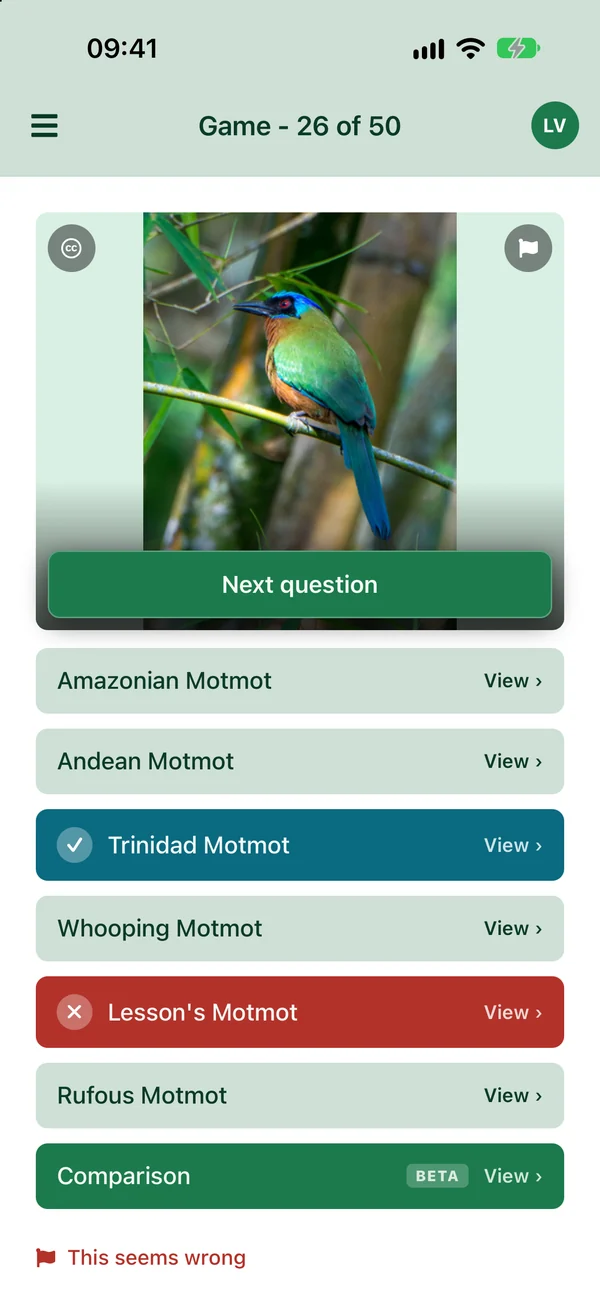
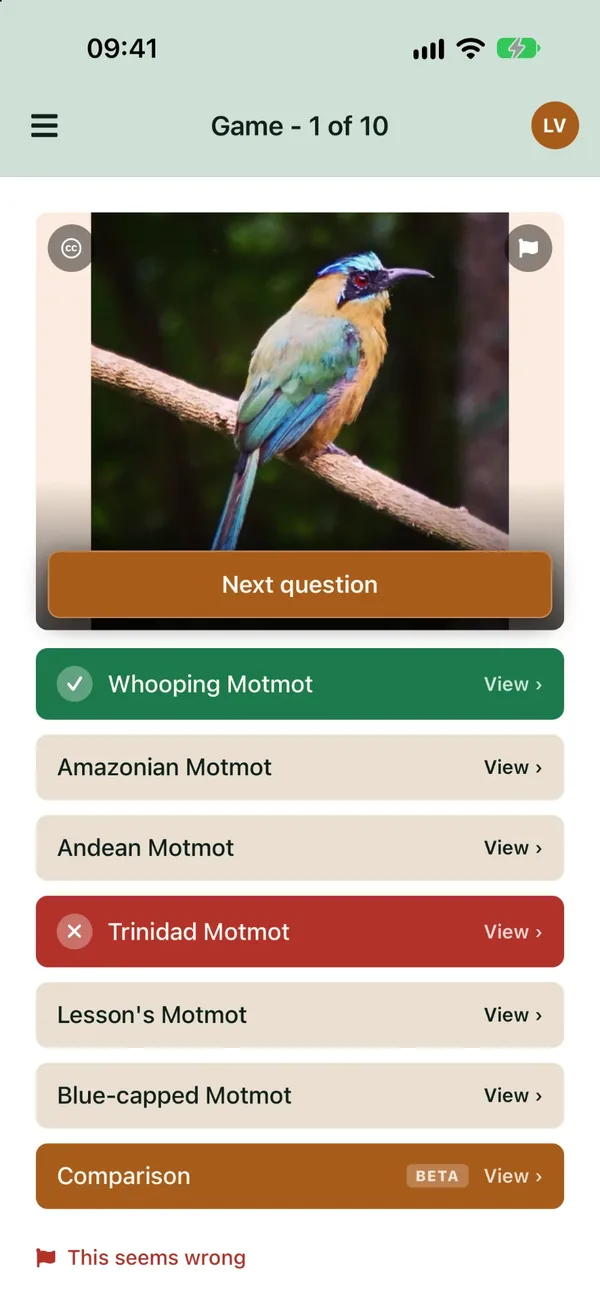
Refresh marketing screenshots and explain playing together
- Landing hero shows the quiz in the new colours (a Whooping Motmot).
- How Motmot teaches: levels, reviewing answers with photos and a
  comparison, and how misses end up in My Tricky Birds.
- My Tricky Birds: Motmot screenshots of the species list, the
  confusing pairs and a Tundra/Whooper Swan comparison.
- How it works: drop the browser link that duplicated the CTA, and add
  a Play together section on multiplayer and shared quizzes with a
  lobby screenshot.

diff --git a/jizz/templates/marketing/landing.html b/jizz/templates/marketing/landing.html
@@ -16,7 +16,7 @@
       <p><a class="web-link" href="/play">{% mt "Or play a quiz in the browser" %}</a></p>
     </div>
     <div class="hero-stage">
-      {% mt "Motmot quiz: a photo of a Trinidad Motmot, with Lesson’s Motmot marked as the wrong answer and Trinidad Motmot as the correct one" as alt %}{% include "marketing/mockups/_shot.html" with shot="quiz-motmot" alt=alt eager=True %}
+      {% mt "Motmot quiz: a photo of a Whooping Motmot, with Trinidad Motmot marked as the wrong answer and Whooping Motmot as the correct one" as alt %}{% include "marketing/mockups/_shot.html" with shot="quiz-motmot" alt=alt eager=True %}
       <img class="tody" src="/images/motmot/tody-hello.webp" width="538" height="600" alt="">
     </div>
   </div>
@@ -38,17 +38,17 @@
     <article class="card">
       <div class="step-art"><div class="step-num">1</div><img class="tody" src="/images/motmot/tody-correct.webp" width="527" height="600" alt="" loading="lazy"></div>
       <h3>{% mt "Play a quiz" %}</h3>
-      <p>{% mt "Answer 10, 20, 50 or 100 questions." %}</p>
+      <p>{% mt "Pick your level: start easy with distinctive birds, or go hard with rare lookalikes." %}</p>
     </article>
     <article class="card">
       <div class="step-art"><div class="step-num">2</div><img class="tody" src="/images/motmot/tody-thinking.webp" width="587" height="600" alt="" loading="lazy"></div>
       <h3>{% mt "Review your answers" %}</h3>
-      <p>{% mt "At the end of the game you can review all your answers." %}</p>
+      <p>{% mt "See more photos of your answer and of the right bird. A comparison explains how the two species differ." %}</p>
     </article>
     <article class="card">
       <div class="step-art"><div class="step-num">3</div><img class="tody" src="/images/motmot/tody-wrong.webp" width="600" height="572" alt="" loading="lazy"></div>
       <h3>{% mt "Learn what you missed" %}</h3>
-      <p>{% mt "Wrong answers become practice. <i>My Tricky Birds</i> keeps the lookalikes that will not stick." %}</p>
+      <p>{% mt "After a few games, the species you get wrong most appear in <i>My Tricky Birds</i>. There you can play quizzes on just those birds and pairs." %}</p>
     </article>
   </div>
   <p><a href="{{ '/site/how-it-works/'|mpath }}">{% mt "See how it works" %}</a></p>

diff --git a/jizz/templates/marketing/intent.html b/jizz/templates/marketing/intent.html
@@ -1,4 +1,5 @@
 {% extends "marketing/base.html" %}
+{% block extra_head %}{% if levels %}{% include "marketing/mockups/_styles.html" %}{% endif %}{% endblock %}
 {% block content %}
 <section class="hero{% if mascot %} has-mascot{% endif %}">
   {% if mascot %}<img class="tody hero-mascot" src="{{ mascot.src }}" width="{{ mascot.width }}" height="{{ mascot.height }}" alt="">{% endif %}
@@ -10,7 +11,7 @@
   </div>
   <p>
     <a class="btn" href="{{ cta_href }}">{{ cta_label }}</a>
-    <a class="web-link" href="/play">{% mt "Play in the browser" %}</a>
+    {% if cta_href != '/play' %}<a class="web-link" href="/play">{% mt "Play in the browser" %}</a>{% endif %}
   </p>
 </section>
 {% if screenshots %}
@@ -59,6 +60,20 @@
       </dl>
     </aside>
     {% endif %}
+  </div>
+  <div class="features">
+  <article class="feature tint-brow" id="play-together">
+    <div class="feature-text">
+      <p class="kicker">{% mt "Multiplayer and shared quizzes" %}</p>
+      <h3 class="feature-title">{% mt "Play together" %}</h3>
+      <p><strong>{% mt "Multiplayer" %}.</strong> {% mt "A live quiz for two or more players. Faster correct answers score more points—great for a desk duel or a club night." %}</p>
+      <p><strong>{% mt "Shared games" %}.</strong> {% mt "Invite friends to play the very same quiz, each on their own time. Everyone has 3 days—or whatever limit you set—and then you compare scores." %}</p>
+      <p>{% mt "Friends join with the game link, a WhatsApp invite or by scanning the QR code in the lobby." %}</p>
+    </div>
+    <div class="feature-art">
+      {% mt "The Motmot game lobby: the game link, a QR code to join, and four players ready to start" as alt %}{% include "marketing/mockups/_shot.html" with shot="lobby" alt=alt %}
+    </div>
+  </article>
   </div>
 </section>
 {% endif %}

diff --git a/jizz/marketing/catalogs.py b/jizz/marketing/catalogs.py
@@ -111,20 +111,42 @@ _ENTRIES: list[tuple[str, tuple[str, ...]]] = [
     ('Or play a quiz in the browser', ('Of speel een quiz in de browser', 'O juega un quiz en el navegador', 'Ou fais un quiz dans le navigateur', 'Oder spiel ein Quiz im Browser', 'O fai un quiz nel browser', 'Ou jogue um quiz no navegador', 'またはブラウザでクイズ')),
     ('How Motmot teaches', ('Hoe Motmot lesgeeft', 'Cómo enseña Motmot', 'Comment Motmot enseigne', 'So lehrt Motmot', 'Come insegna Motmot', 'Como o Motmot ensina', 'Motmotの学び方')),
     ('Play a quiz', ('Speel een quiz', 'Jugar un quiz', 'Faire un quiz', 'Quiz spielen', 'Fai un quiz', 'Jogar um quiz', 'クイズをプレイ')),
-    ('Answer 10, 20, 50 or 100 questions.', ('Beantwoord 10, 20, 50 of 100 vragen.', 'Responde 10, 20, 50 o 100 preguntas.', 'Réponds à 10, 20, 50 ou 100 questions.', 'Beantworte 10, 20, 50 oder 100 Fragen.', 'Rispondi a 10, 20, 50 o 100 domande.', 'Responda 10, 20, 50 ou 100 perguntas.', '10、20、50、100問から選べます。')),
+    (
+        'Pick your level: start easy with distinctive birds, or go hard with rare lookalikes.',
+        (
+            'Kies je level: begin makkelijk met opvallende soorten, of ga voor zeldzame lookalikes.',
+            'Elige tu nivel: empieza fácil con aves inconfundibles o ve a lo difícil con especies parecidas y raras.',
+            'Choisis ton niveau : commence facile avec des oiseaux bien reconnaissables, ou corse les choses avec des sosies rares.',
+            'Wähle dein Level: fang leicht mit markanten Arten an oder geh direkt an seltene Verwechslungsarten.',
+            'Scegli il tuo livello: inizia facile con specie inconfondibili o punta in alto con sosia rari.',
+            'Escolha seu nível: comece fácil com aves inconfundíveis ou vá para o difícil com espécies parecidas e raras.',
+            'レベルを選びましょう。見分けやすい鳥から始めても、珍しい似た種に挑んでもOKです。',
+        ),
+    ),
     ('Review your answers', ('Bekijk je antwoorden', 'Revisa tus respuestas', 'Revois tes réponses', 'Antworten prüfen', 'Rivedi le risposte', 'Revise suas respostas', '答えを確認')),
-    ('At the end of the game you can review all your answers.', ('Aan het eind van het spel kun je al je antwoorden nalopen.', 'Al final de la partida puedes revisar todas tus respuestas.', 'À la fin de la partie tu peux revoir toutes tes réponses.', 'Am Ende kannst du alle Antworten nachschauen.', 'Alla fine della partita puoi rivedere tutte le risposte.', 'No fim do jogo você pode revisar todas as respostas.', 'ゲームの終わりに、すべての答えを確認できます。')),
+    (
+        'See more photos of your answer and of the right bird. A comparison explains how the two species differ.',
+        (
+            'Bekijk meer foto’s van jouw antwoord en van de juiste vogel. Een vergelijking legt uit hoe de twee soorten verschillen.',
+            'Mira más fotos de tu respuesta y del ave correcta. Una comparación explica en qué se diferencian las dos especies.',
+            'Regarde plus de photos de ta réponse et du bon oiseau. Une comparaison explique ce qui distingue les deux espèces.',
+            'Sieh dir mehr Fotos deiner Antwort und des richtigen Vogels an. Ein Vergleich erklärt, worin sich die beiden Arten unterscheiden.',
+            'Guarda altre foto della tua risposta e dell’uccello giusto. Un confronto spiega come si distinguono le due specie.',
+            'Veja mais fotos da sua resposta e da ave certa. Uma comparação explica como as duas espécies se diferenciam.',
+            '自分の答えと正解の鳥の写真をもっと見られます。比較では、2種の違いを説明します。',
+        ),
+    ),
     ('Learn what you missed', ('Leer van je missers', 'Aprende de lo que fallaste', 'Apprends de tes erreurs', 'Lerne aus Fehlern', 'Impara dagli errori', 'Aprenda com os erros', '間違えたところを学ぶ')),
     (
-        'Wrong answers become practice. <i>My Tricky Birds</i> keeps the lookalikes that will not stick.',
+        'After a few games, the species you get wrong most appear in <i>My Tricky Birds</i>. There you can play quizzes on just those birds and pairs.',
         (
-            'Foute antwoorden worden oefening. <i>Mijn lastige vogels</i> onthoudt de lookalikes die niet blijven hangen.',
-            'Las respuestas incorrectas se convierten en práctica. <i>Mis aves difíciles</i> guarda los parecidos que no se te quedan.',
-            'Les mauvaises réponses deviennent de l’entraînement. <i>Mes oiseaux difficiles</i> retient les sosies qui ne rentrent pas.',
-            'Falsche Antworten werden zum Training. <i>Meine schwierigen Vögel</i> merkt sich die Verwechslungsarten.',
-            'Le risposte sbagliate diventano pratica. <i>I miei uccelli difficili</i> tiene i sosia che non restano.',
-            'Respostas erradas viram prática. <i>Minhas aves difíceis</i> guarda os parecidos que não grudam.',
-            '間違いは練習になります。<i>苦手な鳥</i> が、覚えにくい似た種を残します。',
+            'Na een paar spellen verschijnen de soorten die je het vaakst fout hebt in <i>Mijn lastige vogels</i>. Daar speel je quizzen met alleen die vogels en paren.',
+            'Tras unas partidas, las especies que más fallas aparecen en <i>Mis aves difíciles</i>. Allí puedes jugar quizzes solo con esas aves y pares.',
+            'Après quelques parties, les espèces que tu rates le plus apparaissent dans <i>Mes oiseaux difficiles</i>. Tu peux y faire des quiz rien qu’avec ces oiseaux et ces paires.',
+            'Nach ein paar Spielen erscheinen die Arten, die du am häufigsten falsch hast, in <i>Meine schwierigen Vögel</i>. Dort spielst du Quiz nur mit diesen Vögeln und Paaren.',
+            'Dopo qualche partita, le specie che sbagli di più compaiono in <i>I miei uccelli difficili</i>. Lì puoi fare quiz solo su quegli uccelli e quelle coppie.',
+            'Depois de alguns jogos, as espécies que você mais erra aparecem em <i>Minhas aves difíceis</i>. Lá você pode jogar quizzes só com essas aves e pares.',
+            '何回かプレイすると、よく間違える種が<i>苦手な鳥</i>に表示されます。そこではその鳥やペアだけのクイズができます。',
         ),
     ),
     ('See how it works', ('Bekijk hoe het werkt', 'Mira cómo funciona', 'Voir comment ça marche', 'So funktioniert’s', 'Scopri come funziona', 'Veja como funciona', '使い方を見る')),

diff --git a/jizz/marketing/catalogs_extra.py b/jizz/marketing/catalogs_extra.py
@@ -424,6 +424,32 @@ EXTRA_ENTRIES: list[tuple[str, tuple[str, ...]]] = [
             'アプリの「苦手な鳥」：オランダの似たペア一覧。練習ボタンと FIXED バッジ付き',
         ),
     ),
+    ('Your tricky birds', ('Jouw lastige vogels', 'Tus aves difíciles', 'Tes oiseaux difficiles', 'Deine schwierigen Vögel', 'I tuoi uccelli difficili', 'Suas aves difíceis', 'あなたの苦手な鳥')),
+    (
+        'My Tricky Birds, Pairs tab: lookalike pairs you mix up in the Netherlands, such as Tundra Swan and Whooper Swan, each with a Practice button',
+        (
+            'Mijn lastige vogels, tabblad Paren: lookalike-paren die je in Nederland verwart, zoals kleine zwaan en wilde zwaan, elk met een Oefen-knop',
+            'Mis aves difíciles, pestaña Pares: pares parecidos que confundes en Países Bajos, como el cisne chico y el cisne cantor, cada uno con un botón Practicar',
+            'Mes oiseaux difficiles, onglet Paires : les paires sosies que tu confonds aux Pays-Bas, comme le cygne de Bewick et le cygne chanteur, chacune avec un bouton Pratiquer',
+            'Meine schwierigen Vögel, Reiter Paare: Doppelgänger-Paare, die du in den Niederlanden verwechselst, etwa Zwergschwan und Singschwan, jeweils mit Üben-Button',
+            'I miei uccelli difficili, scheda Coppie: coppie simili che confondi nei Paesi Bassi, come il cigno minore e il cigno selvatico, ognuna con un pulsante Pratica',
+            'Minhas aves difíceis, aba Pares: pares parecidos que você confunde nos Países Baixos, como o cisne-pequeno e o cisne-bravo, cada um com um botão Praticar',
+            'アプリの「苦手な鳥」ペアタブ：オランダで混同しやすいペア（コハクチョウとオオハクチョウなど）。それぞれに練習ボタン付き',
+        ),
+    ),
+    (
+        'Comparison of Tundra Swan and Whooper Swan: identification tips on bill pattern, size, head shape and neck length',
+        (
+            'Vergelijking van kleine zwaan en wilde zwaan: determinatietips over snavelpatroon, grootte, kopvorm en halslengte',
+            'Comparación del cisne chico y el cisne cantor: claves de identificación sobre el dibujo del pico, el tamaño, la forma de la cabeza y la longitud del cuello',
+            'Comparaison du cygne de Bewick et du cygne chanteur : conseils d’identification sur le motif du bec, la taille, la forme de la tête et la longueur du cou',
+            'Vergleich von Zwergschwan und Singschwan: Bestimmungstipps zu Schnabelmuster, Größe, Kopfform und Halslänge',
+            'Confronto tra cigno minore e cigno selvatico: consigli di identificazione su disegno del becco, dimensioni, forma della testa e lunghezza del collo',
+            'Comparação entre cisne-pequeno e cisne-bravo: dicas de identificação sobre o padrão do bico, o tamanho, o formato da cabeça e o comprimento do pescoço',
+            'コハクチョウとオオハクチョウの比較：くちばしの模様、大きさ、頭の形、首の長さによる識別のポイント',
+        ),
+    ),
+    ('Compare a pair', ('Vergelijk een paar', 'Compara un par', 'Comparer une paire', 'Ein Paar vergleichen', 'Confronta una coppia', 'Compare um par', 'ペアを比較')),
     ('Your tricky pairs', ('Jouw lastige paren', 'Tus pares difíciles', 'Tes paires difficiles', 'Deine schwierigen Paare', 'Le tue coppie difficili', 'Seus pares difíceis', '苦手なペア')),
     (
         'Pair practice quiz: Eurasian Treecreeper versus Short-toed Treecreeper, with the correct species marked',
@@ -591,7 +617,7 @@ EXTRA_ENTRIES: list[tuple[str, tuple[str, ...]]] = [
     ('Track your progress', ('Volg je voortgang', 'Sigue tu progreso', 'Suis tes progrès', 'Verfolge deinen Fortschritt', 'Segui i tuoi progressi', 'Acompanhe seu progresso', '進歩を記録する')),
     # Home page screenshots: alt texts.
     (
-        'Motmot quiz: a photo of a Trinidad Motmot, with Lesson’s Motmot marked as the wrong answer and Trinidad Motmot as the correct one',
+        'Motmot quiz: a photo of a Whooping Motmot, with Trinidad Motmot marked as the wrong answer and Whooping Motmot as the correct one',
         (
             'Motmot-quiz: een foto van een motmot, met één fout antwoord en het juiste antwoord gemarkeerd',
             'Quiz de Motmot: una foto de un momoto, con una respuesta incorrecta y la respuesta correcta marcadas',

diff --git a/jizz/marketing/catalogs_ui.py b/jizz/marketing/catalogs_ui.py
@@ -212,6 +212,54 @@ UI_ENTRIES: list[tuple[str, tuple[str, ...]]] = [
             'どのクイズにもレベルと、ほかの設定が少しあります。特徴のはっきりした鳥から始め、珍しい似た種、自分で名前を入力する段階へ。',
         ),
     ),
+    (
+        'Multiplayer and shared quizzes',
+        (
+            'Multiplayer en gedeelde quizzen',
+            'Multijugador y quizzes compartidos',
+            'Multijoueur et quiz partagés',
+            'Mehrspieler und geteilte Quiz',
+            'Multigiocatore e quiz condivisi',
+            'Multijogador e quizzes compartilhados',
+            'マルチプレイと共有クイズ',
+        ),
+    ),
+    (
+        'Play together',
+        (
+            'Samen spelen',
+            'Jugar juntos',
+            'Jouer ensemble',
+            'Zusammen spielen',
+            'Giocare insieme',
+            'Jogar juntos',
+            'みんなで遊ぶ',
+        ),
+    ),
+    (
+        'Friends join with the game link, a WhatsApp invite or by scanning the QR code in the lobby.',
+        (
+            'Vrienden doen mee via de spellink, een WhatsApp-uitnodiging of door de QR-code in de lobby te scannen.',
+            'Tus amigos se unen con el enlace de la partida, una invitación por WhatsApp o escaneando el código QR del lobby.',
+            'Tes amis rejoignent avec le lien de la partie, une invitation WhatsApp ou en scannant le QR code du lobby.',
+            'Freunde steigen über den Spiel-Link, eine WhatsApp-Einladung oder den QR-Code in der Lobby ein.',
+            'Gli amici entrano con il link della partita, un invito su WhatsApp o scansionando il codice QR nella lobby.',
+            'Seus amigos entram pelo link do jogo, por um convite no WhatsApp ou escaneando o QR code no lobby.',
+            '友だちはゲームのリンク、WhatsAppの招待、またはロビーのQRコードを読み取って参加できます。',
+        ),
+    ),
+    (
+        'The Motmot game lobby: the game link, a QR code to join, and four players ready to start',
+        (
+            'De spellobby van Motmot: de spellink, een QR-code om mee te doen en vier spelers die klaar zijn om te beginnen',
+            'El lobby de partida de Motmot: el enlace, un código QR para unirse y cuatro jugadores listos para empezar',
+            'Le lobby de partie de Motmot : le lien de la partie, un QR code pour rejoindre et quatre joueurs prêts à commencer',
+            'Die Spiel-Lobby von Motmot: der Spiel-Link, ein QR-Code zum Mitspielen und vier Spieler, die startklar sind',
+            'La lobby di gioco di Motmot: il link della partita, un codice QR per entrare e quattro giocatori pronti a iniziare',
+            'O lobby de jogo do Motmot: o link do jogo, um QR code para entrar e quatro jogadores prontos para começar',
+            'Motmotのゲームロビー：ゲームのリンク、参加用のQRコード、開始を待つ4人のプレイヤー',
+        ),
+    ),
     ('Birds people mix up most', ('Vogels die mensen het meest door elkaar halen', 'Aves que más se confunden', 'Oiseaux que les gens mélangent le plus', 'Vögel, die am häufigsten verwechselt werden', 'Uccelli che si confondono di più', 'Aves que as pessoas mais misturam', 'いちばん取り違えられる鳥')),
     (
         'These are the species and pairs with the most quiz mistakes. Open a page, then practise them until they stick.',

diff --git a/jizz/tests/test_marketing.py b/jizz/tests/test_marketing.py
@@ -274,6 +274,12 @@ class MarketingPagesTests(TestCase):
                 self.assertIn('<title>', html)
 
         how = self.client.get('/site/how-it-works/').content.decode()
+        # Play together: multiplayer and shared quizzes, with the lobby screenshot
+        self.assertIn('id="play-together"', how)
+        self.assertIn('/images/motmot/screen-lobby.webp', how)
+        self.assertEqual(self.client.get('/images/motmot/screen-lobby.webp').status_code, 200)
+        # The CTA already goes to /play, so no second browser link beside it
+        self.assertNotIn('</a>\n    <a class="web-link" href="/play">', how)
         self.assertRegex(how, r'href="/site/how-it-works/"[^>]*aria-current="page"')
         self.assertNotRegex(how, r'href="/site/birds/"[^>]*aria-current="page"')
         self.assertIn('Beginner', how)
@@ -293,20 +299,21 @@ class MarketingPagesTests(TestCase):
         tricky = self.client.get('/site/my-tricky-birds/').content.decode()
         self.assertNotIn('Most missed species', tricky)
         self.assertNotIn('Confusing pairs', tricky)
-        self.assertIn('/images/birdr-tricky-birds.png', tricky)
-        self.assertIn('/images/birdr-tricky-practice.png', tricky)
-        self.assertIn('/images/birdr-tricky-results.png', tricky)
+        self.assertIn('/images/motmot/screen-tricky.webp', tricky)
+        self.assertIn('/images/motmot/screen-tricky-pairs.webp', tricky)
+        self.assertIn('/images/motmot/screen-tricky-comparison.webp', tricky)
+        self.assertNotIn('/images/birdr-tricky-', tricky)
+        self.assertIn('Your tricky birds', tricky)
         self.assertIn('Your tricky pairs', tricky)
-        self.assertIn('Practise a pair', tricky)
-        self.assertIn('See when a pair is fixed', tricky)
+        self.assertIn('Compare a pair', tricky)
         for path in (
-            '/images/birdr-tricky-birds.png',
-            '/images/birdr-tricky-practice.png',
-            '/images/birdr-tricky-results.png',
+            '/images/motmot/screen-tricky.webp',
+            '/images/motmot/screen-tricky-pairs.webp',
+            '/images/motmot/screen-tricky-comparison.webp',
         ):
             shot = self.client.get(path)
             self.assertEqual(shot.status_code, 200, path)
-            self.assertEqual(shot['Content-Type'], 'image/png')
+            self.assertEqual(shot['Content-Type'], 'image/webp')
 
         flocks = self.client.get('/site/flocks/').content.decode()
         self.assertIn('Flocks: quizzes for bird clubs', flocks)

diff --git a/jizz/marketing/pages.py b/jizz/marketing/pages.py
@@ -334,34 +334,31 @@ INTENT_PAGES = {
         ],
         'screenshots': [
             {
-                'src': '/images/birdr-tricky-birds.png',
-                'width': 456,
-                'height': 1024,
+                'src': '/images/motmot/screen-tricky.webp',
+                'width': 600,
+                'height': 1304,
+                'alt': 'My Tricky Birds: the species you often get wrong, each with a practice button',
+                'caption': 'Your tricky birds',
+            },
+            {
+                'src': '/images/motmot/screen-tricky-pairs.webp',
+                'width': 600,
+                'height': 1304,
                 'alt': (
-                    'My Tricky Birds in the app: a list of lookalike pairs for the '
-                    'Netherlands, with Practice buttons and FIXED badges'
+                    'My Tricky Birds, Pairs tab: lookalike pairs you mix up in the Netherlands, '
+                    'such as Tundra Swan and Whooper Swan, each with a Practice button'
                 ),
                 'caption': 'Your tricky pairs',
             },
             {
-                'src': '/images/birdr-tricky-practice.png',
-                'width': 456,
-                'height': 1024,
+                'src': '/images/motmot/screen-tricky-comparison.webp',
+                'width': 600,
+                'height': 1304,
                 'alt': (
-                    'Pair practice quiz: Eurasian Treecreeper versus Short-toed '
-                    'Treecreeper, with the correct species marked'
+                    'Comparison of Tundra Swan and Whooper Swan: identification tips on bill '
+                    'pattern, size, head shape and neck length'
                 ),
-                'caption': 'Practise a pair',
-            },
-            {
-                'src': '/images/birdr-tricky-results.png',
-                'width': 456,
-                'height': 1024,
-                'alt': (
-                    'Pair practice results: 18 of 20 correct, and the treecreepers '
-                    'no longer seem confusing'
-                ),
-                'caption': 'See when a pair is fixed',
+                'caption': 'Compare a pair',
             },
         ],
     },
